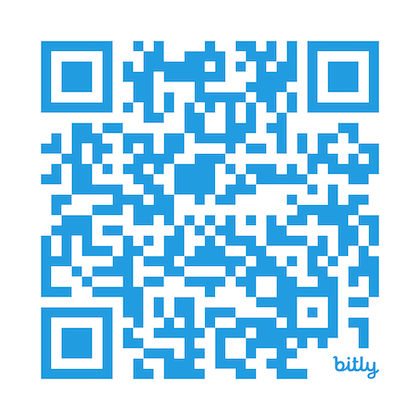
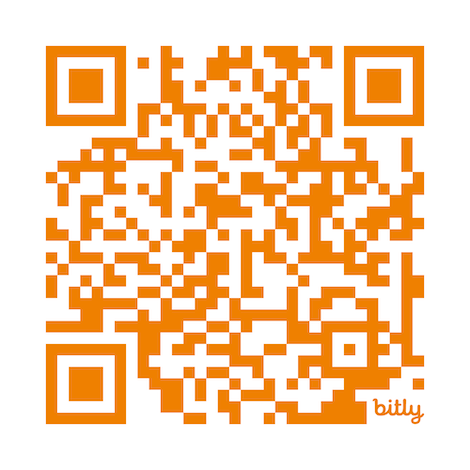
Joint community Lightning Talks and Open Mic - CJUG CKUG AIC-Chicago - July 2025

diff --git a/index.html b/index.html
@@ -74,13 +74,13 @@
 			         data-vertical="--section--"  
 			         data-notes="^Note:"
 			         data-charset="iso-8859-15"
-			    ></section> -->
+			    ></section>
 				<section data-markdown="sections/news.md"
 						 data-separator="--slide--"
 						 data-vertical="--section--"
 						 data-notes="^Note:"
 						 data-charset="iso-8859-15"
-				></section>
+				></section-->
 			    <section data-markdown="sections/speaker.md"
 			         data-separator="--slide--"  
 			         data-vertical="--section--"  

diff --git a/sections/cjug.md b/sections/cjug.md
@@ -1,10 +1,18 @@
 ### Chicago Java Users Group
 ---
-#### June 11, 2025
-### Simple, Reliable Sagas in Java and Temporal
-### by Peter Sullivan
+### July 24, 2025
+## Lightning Talks / Open Mic
+#### by Members of CJUG, CKUG and the AI Collective - Chicago
 <div style="background-color: white; margin-top: 10px;">
 	<img src="images/cjug.gif" style="border: 20px; box-shadow:none; margin:5px"/>
+</div>
+
+--section--
+## In Collaboration with
+#### Chicago Kotlin Users Group and the AI Collective (Chicago Chapter)
+<div style="background-color: white; margin-top: 10px;">
+	<img src="images/ckug.jpeg" style="border: 20px; box-shadow:none; margin:5px"/>
+	<img src="images/aicollective.jpg" style="border: 20px; box-shadow:none; margin:5px"/>
 </div>
 
 --section--
@@ -13,7 +21,7 @@
 <img src="images/JetBrains-2022-twitter.jpg" style="border:none; box-shadow:none; margin: 14px; background:white;"/>
 <img src="images/CJUG-JB-raffle-QR.png" style="border:none; box-shadow:none; margin: 14px; background:white;"/>
 <br/>
-##### Submit your info here to enter into the drawings: [https://bit.ly/3FSB7nR](https://bit.ly/3FSB7nR)
+##### Submit your info here to enter into the drawings: [https://bit.ly/3IIpQaW](https://bit.ly/3IIpQaW)
 ####NOTE: You are ineligible to participate in the JetBrains Raffles
 ####if you won a license within the last 9 months!
 
@@ -49,7 +57,7 @@
 
 <img src="images/cjug-discord-qrcode.png" style="border:none; box-shadow:none; margin: 30px; background:white;"/>
 
-Join this room: [#2025-06-11-sagas-temporal](https://discord.gg/zCpDKjbmYJ)
+Join this room: [#2025-07-24-lightning-openmic-community](https://discord.gg/R7M79NXW)
 
 --section--
 ##Community Info
@@ -62,9 +70,8 @@ Join this room: [#2025-06-11-sagas-temporal](https://discord.gg/zCpDKjbmYJ)
 --section--
 ## Upcoming Event(s)
 
-* July 24 (To be confirmed - jointly with [AI Collective Chicago](https://aicollective.com/chapters/chicago)): Lightning Talks with optional practice session
-* August 19 (To be confirmed): Francois Martin (from Karakun in Switzerland)
-* September: Gerrit Grunwald from Azul
+* August 19: Francois Martin (from Karakun in Switzerland) https://lu.ma/2ii512i5
+* September: Haoyi Li (from Databricks in Singapore)
 <br/><br/>
 #### Other confirmed speakers include: 
 - Alina Yurenko (Oracle/GraalVM), Jose Paumard (Oracle)
@@ -74,8 +81,6 @@ Join this room: [#2025-06-11-sagas-temporal](https://discord.gg/zCpDKjbmYJ)
 --section--
 ## Interested in speaking at CJUG?
 <br/>Submit your proposals to: **present@cjug.org**<br/>
-
-<br/> Send us your lightning talk proposals (for July 2025)!!
 
 --section--
 

diff --git a/sections/sponsors.md b/sections/sponsors.md
@@ -1,19 +1,10 @@
-# Our Gold Sponsor
+### Our Gold Sponsor - Expired June 2025 - Thank You
 <img src="images/neo4j.png" style="border:none; box-shadow:none; margin: 30px; background:white;"/>
 
 --section--
-### Neo4j Community Contest - Monthly Raffle!
-<img src="images/neo4j_2024_raffle.png" style="border:none; box-shadow:none; margin: 30px; background:white;"/>
+### Our Venue Host: Illinois Institute of Technology (IIT)
 
---section--
-### Our Venue Host: Improving
-
-<img src="images/Improving.png" style="border:none; box-shadow:none; margin: 30px"/>
-
---section--
-### Our Event Host: Temporal
-
-<img src="images/Temporal.png" style="border:none; box-shadow:none; margin: 30px"/>
+<img src="images/IIT.png" style="border:none; box-shadow:none; margin: 30px"/>
 
 
 --section--

diff --git a/sections/speaker.md b/sections/speaker.md
@@ -1,8 +1,9 @@
-### Our Speaker from Temporal
-
-## Peter Sullivan [@petervsullivan](https://www.linkedin.com/in/petervsullivan/)
-- Senior Manager of Solutions Architecture at Temporal
-- Extensive consulting and solutions architecture experiences at major companies such as VMWare/Pivotal
+### Our Speakers from the joint Communities
+</br>
+### Juan Peredo [@juanperedotech](https://www.linkedin.com/in/juanperedotech/)
+### Jerason Banes [@jerason-banes](https://www.linkedin.com/in/jerason-banes-3594977a/)
+</br>
+###### Josh Austin **cancelled due to exposure to COVID
 
 
 
